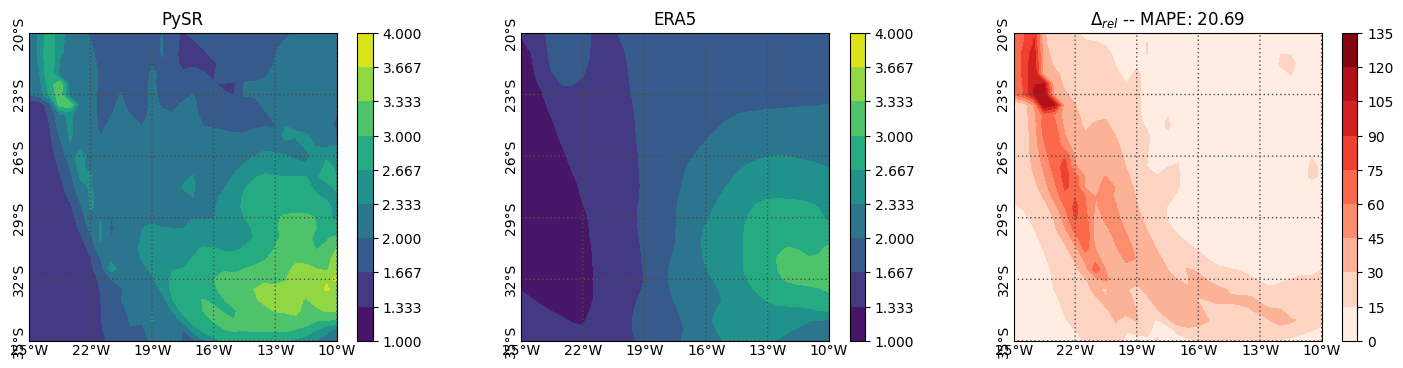
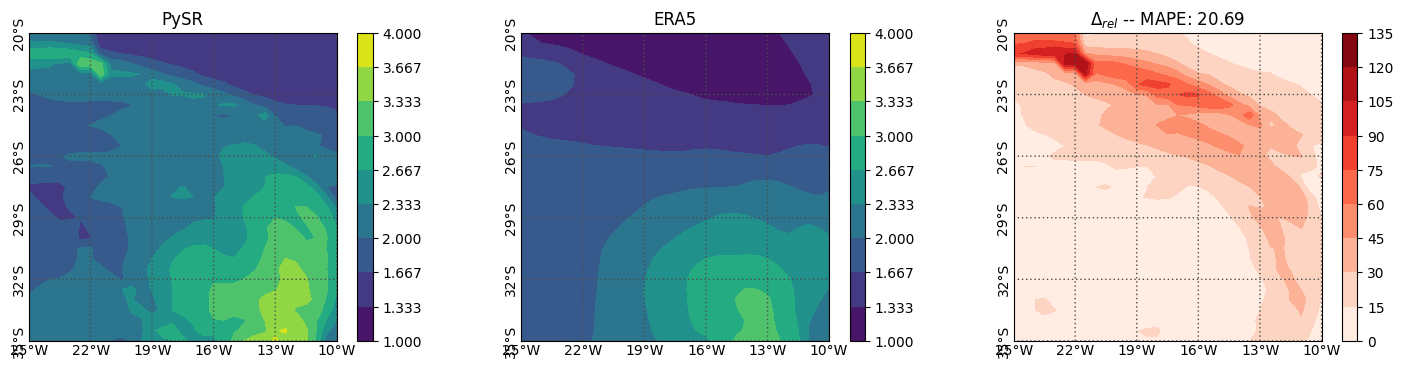
fix figure and update results

diff --git a/src/symb_ocean.py b/src/symb_ocean.py
@@ -68,7 +68,7 @@ def plot2map(lon, lat, dados, vmi, vma, red):
                       rotation=90, dashes=[1, 2], color=(0.3, 0.3, 0.3))
     map.drawmeridians(np.linspace(lon.min(), lon.max(), 6), labels=[0,0,0,1], 
                       dashes=[1, 2], color=(0.3, 0.3, 0.3))
-    llons, llats = np.meshgrid(lon, lat)
+    llats, llons = np.meshgrid(lat, lon)
     lons, lats = map(lon, lat)
     
     levels = np.linspace(math.floor(vmi), math.ceil(vma), 10)

diff --git a/src/config.py b/src/config.py
@@ -7,7 +7,7 @@ train_initial_date = '2020-01-01'
 lat_tst            = -20.0
 long_tst           = -25.0
 new_train          = False #set true if want to train new model
-model_saved        = './outputs/20250826_160350_Z7VmrW'
+model_saved        = './outputs/20250826_101011_rxdZFv'
 future_predict     = True
 region_time        = '2023-07-02 09:00:00'
 
